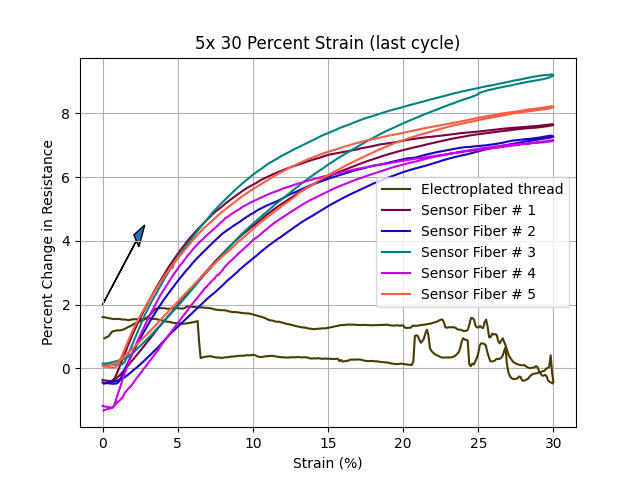
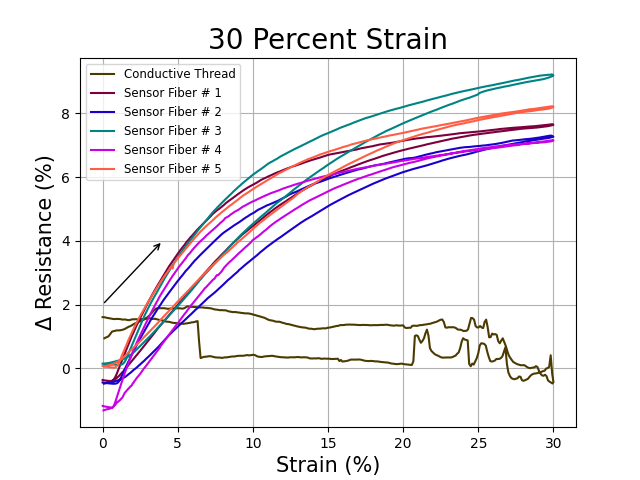
updated graphs

diff --git a/Python/baked_fibers.py b/Python/baked_fibers.py
@@ -1,14 +1,22 @@
 import os
 import pandas as pd
 import matplotlib.pyplot as plt
+from matplotlib.colors import LinearSegmentedColormap, ListedColormap
+
 dataPath = "Sensor fiber characterization/baked/"
-palette = [ '#008383', '#c902e5', '#1b00cd', '#7c003e', '#4c3b01', '#ff5e45']
+palette= ['#ff5e45', '#7c003e', '#1b00cd', '#008383', '#c902e5','#4c3b01' ]
+""" 
+palette = [['#C902E5', '#AF02B3', '#93027E', '#750246','#5C0216'],
+           ['#FF5E45', '#D35534', '#A84D24', "#794412",'#4C3B01'],
+           ['#008383', '#066594', '#0E3FA9', '#151EBC', '#1B00CD']
+           ]
+cmap1 = LinearSegmentedColormap.from_list("orangebrown", palette[1])
+"""
 
 files = ["baked_2-synced.csv",
          "baked_3-synced.csv",
          "baked_4-synced.csv"
          ]
-
 
 for i,file in enumerate(files):
     df = pd.read_csv(os.path.join(dataPath,file), header=None)
@@ -16,13 +24,14 @@ for i,file in enumerate(files):
     df["res_change"] = (df[3] - df[3][0])*(df[3][0]**-1) *100 #(Ri − R0) · (R0)^−1
     x = 30*df[1]/df[1].max() #scale to 30
     name = f"Sensor Fiber # {i+1}"
+
     plt.plot(x,df["res_change"], color=palette[i], label=name)
 
 # Plot design
-plt.annotate("", xytext=(0, 2), xy=(1, 3), arrowprops=dict(arrowstyle="->"))
-plt.title('Baked Fiber')
+plt.annotate("", xytext=(0, 2), xy=(1, 4), arrowprops=dict(arrowstyle="->"))
+plt.title('Baked Fiber',fontsize=20)
 plt.legend()
-plt.xlabel('Strain (%)')
-plt.ylabel(u'Δ Resistance (%)')
+plt.xlabel('Strain (%)', fontsize=15)
+plt.ylabel(u'Δ Resistance (%)',fontsize=15)
 plt.grid()
 plt.show()

diff --git a/Python/single_fiber-humid.py b/Python/single_fiber-humid.py
@@ -2,18 +2,13 @@ import os
 import pandas as pd
 import matplotlib.pyplot as plt
 
-dataPath = 'Sensor fiber characterization/5x runs/'
+dataPath = 'Sensor fiber characterization/humidified/'
+file = 'humidified_2-synced.csv'
 
 palette = ['#c902e5', '#693FB6','#405AA2','#038185','#008383']
 
-files = ['oldthread_30percent_5x_synced.csv',
-         'oldthread_sensorfiber_5x_1_synced.csv',
-         'oldthread_sensorfiber_5x_3_synced.csv',
-         'oldthread_sensorfiber_5x_4_synced.csv',
-         'oldthread_sensorfiber_5x_5_synced.csv',
-         'oldthread_sensorfiber_5x_6_synced.csv']
 
-df = pd.read_csv(os.path.join(dataPath,files[4]), header=None)
+df = pd.read_csv(os.path.join(dataPath, file), header=None)
 df['res_change'] = (df[3] - df[3][0])*(df[3][0]**-1) *100 #(Ri − R0) · (R0)^−1
 x = 30*df[1]/df[1].max() #scale to 30
 
@@ -29,11 +24,11 @@ for c in df['color'].unique():
     plt.plot(x[cycle.index], cycle['res_change'], color=palette[c], label=f' cycle {c+1}')
 
 # Plot design
-plt.annotate("", xytext=(0, 1), xy=(1, 2.5),
+plt.annotate("", xytext=(0, 1.5), xy=(2, 3),
             arrowprops=dict(arrowstyle="->"))
-plt.title('Drift Over 5 Loading-Unloading Cycles')
+plt.title('Humidified Drift',fontsize=20)
 plt.legend()
-plt.xlabel('Strain (%)')
-plt.ylabel(u'Δ Resistance (%)')
+plt.xlabel('Strain (%)', fontsize=15)
+plt.ylabel(u'Δ Resistance (%)', fontsize=15)
 plt.grid()
 plt.show()

diff --git a/Python/single_fiber-baked.py b/Python/single_fiber-baked.py
@@ -2,18 +2,13 @@ import os
 import pandas as pd
 import matplotlib.pyplot as plt
 
-dataPath = 'Sensor fiber characterization/5x runs/'
+dataPath = 'Sensor fiber characterization/baked/'
+file ="baked_2-synced.csv"
 
 palette = ['#c902e5', '#693FB6','#405AA2','#038185','#008383']
 
-files = ['oldthread_30percent_5x_synced.csv',
-         'oldthread_sensorfiber_5x_1_synced.csv',
-         'oldthread_sensorfiber_5x_3_synced.csv',
-         'oldthread_sensorfiber_5x_4_synced.csv',
-         'oldthread_sensorfiber_5x_5_synced.csv',
-         'oldthread_sensorfiber_5x_6_synced.csv']
 
-df = pd.read_csv(os.path.join(dataPath,files[4]), header=None)
+df = pd.read_csv(os.path.join(dataPath, file), header=None)
 df['res_change'] = (df[3] - df[3][0])*(df[3][0]**-1) *100 #(Ri − R0) · (R0)^−1
 x = 30*df[1]/df[1].max() #scale to 30
 
@@ -31,9 +26,9 @@ for c in df['color'].unique():
 # Plot design
 plt.annotate("", xytext=(0, 1), xy=(1, 2.5),
             arrowprops=dict(arrowstyle="->"))
-plt.title('Drift Over 5 Loading-Unloading Cycles')
+plt.title('Baked Drift',fontsize=20)
 plt.legend()
-plt.xlabel('Strain (%)')
-plt.ylabel(u'Δ Resistance (%)')
+plt.xlabel('Strain (%)', fontsize=15)
+plt.ylabel(u'Δ Resistance (%)', fontsize=15)
 plt.grid()
 plt.show()

diff --git a/Python/humid_fibers.py b/Python/humid_fibers.py
@@ -2,7 +2,11 @@ import os
 import pandas as pd
 import matplotlib.pyplot as plt
 dataPath = "Sensor fiber characterization/humidified/"
-palette = [ '#008383', '#c902e5', '#1b00cd', '#7c003e', '#4c3b01', '#ff5e45']
+palette = [ '#008383', '#c902e5', '#1b00cd', "#7c003e", '#4c3b01', '#ff5e45']
+""" palette = [['#C902E5', '#AF02B3', '#93027E', '#750246','#5C0216'],
+           ['#FF5E45', '#D35534', '#A84D24', "#794412",'#4C3B01'],
+           ['#008383', '#066594', '#0E3FA9', '#151EBC', '#1B00CD']
+           ] """
 
 files = ['humidified_1-synced.csv',
          'humidified_2-synced.csv',
@@ -20,10 +24,10 @@ for i,file in enumerate(files):
     plt.plot(x,df["res_change"], color=palette[i], label=name)
 
 # Plot design
-plt.annotate("", xytext=(0, 2), xy=(1, 3), arrowprops=dict(arrowstyle="->"))
-plt.title('Humidified Fiber')
+plt.annotate("", xytext=(0, 2), xy=(1.5, 5), arrowprops=dict(arrowstyle="->"))
+plt.title('Humidified Fiber',fontsize=20)
 plt.legend()
-plt.xlabel('Strain (%)')
-plt.ylabel(u'Δ Resistance (%)')
+plt.xlabel('Strain (%)', fontsize=15)
+plt.ylabel(u'Δ Resistance (%)',fontsize=15)
 plt.grid()
 plt.show()

diff --git a/Python/30per_5x.py b/Python/30per_5x.py
@@ -24,10 +24,10 @@ for i,file in enumerate(files):
     plt.plot(x[df['plot']],df[df['plot']]['res_change'], color=palette[i], label=name)
 
 # Plot design
-plt.annotate("", xytext=(0, 1), xy=(1, 2.5), arrowprops=dict(arrowstyle="->"))
-plt.title('Sensor Fiber # 4')
-plt.legend()
-plt.xlabel('Strain (%)')
-plt.ylabel(u'Δ Resistance (%)')
+plt.annotate("", xytext=(0, 2), xy=(4, 4), arrowprops=dict(arrowstyle="->"))
+plt.title('30 Percent Strain', fontsize=20)
+plt.legend(loc='upper left', fontsize=8.5)
+plt.xlabel('Strain (%)', fontsize=15)
+plt.ylabel(u'Δ Resistance (%)', fontsize=15)
 plt.grid()
 plt.show()
